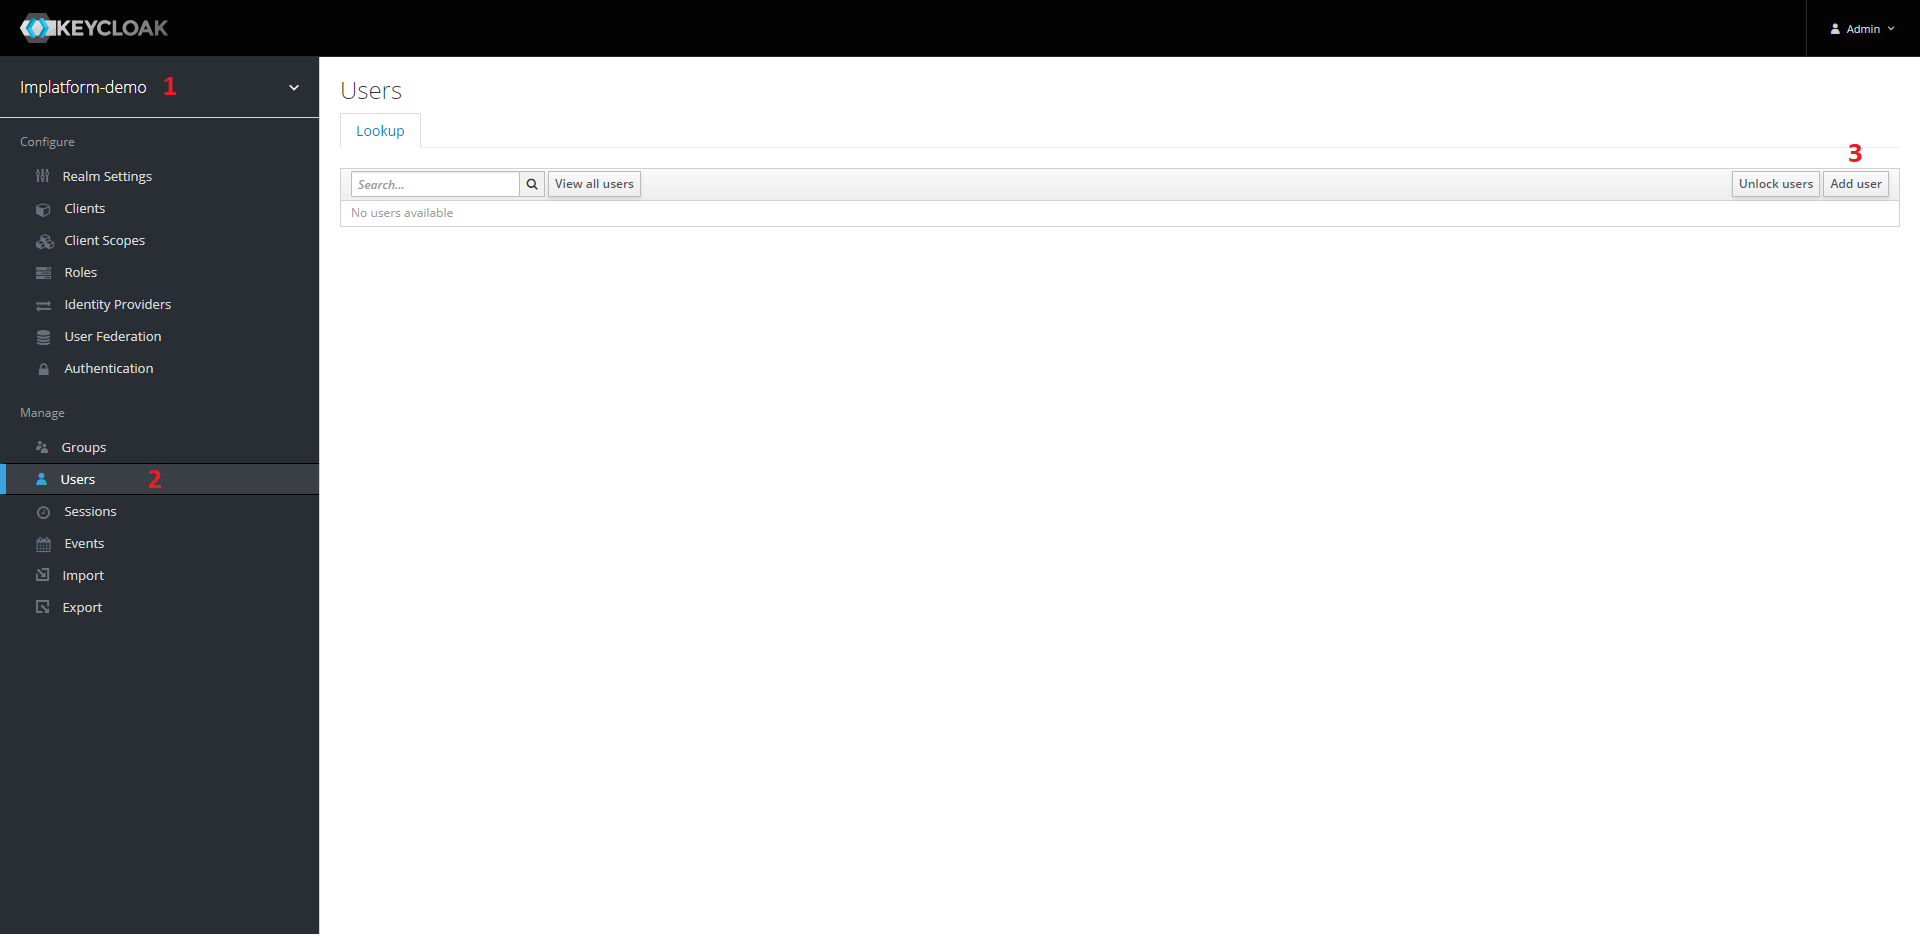
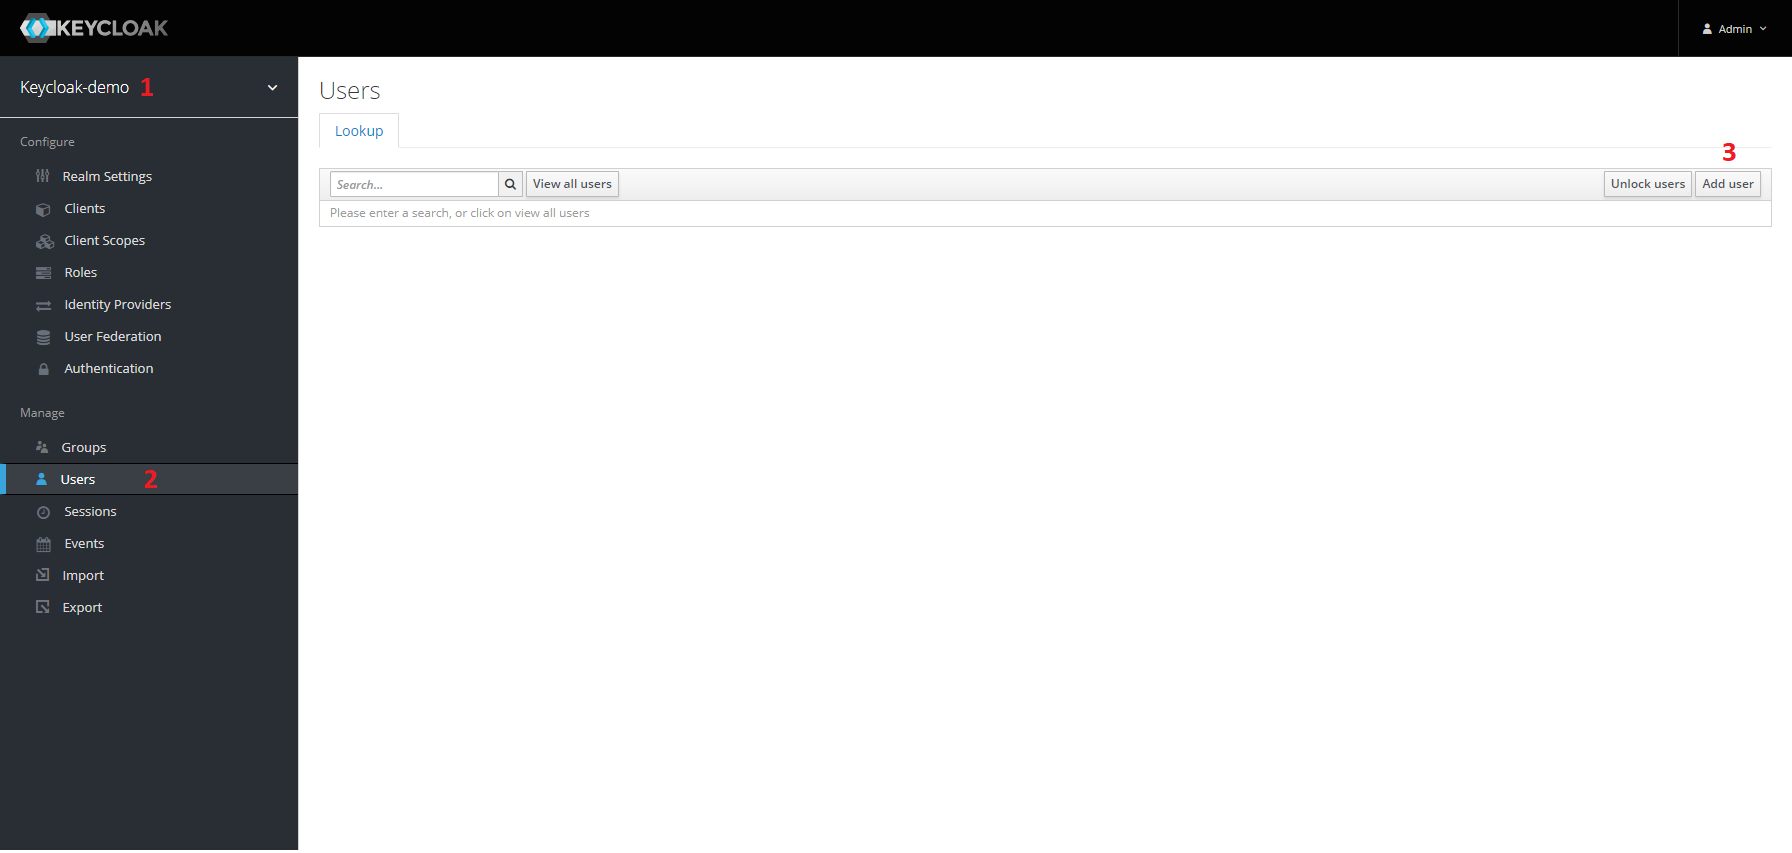
Refactor application name to keycloak-demo

Changed region(s): [[0.0, 0.0, 1.0, 0.3962], [0.0, 0.4267, 0.0938, 0.7315]]

diff --git a/frontend/src/main/ngx/karma.conf.js b/frontend/src/main/ngx/karma.conf.js
@@ -16,7 +16,7 @@ module.exports = function (config) {
       clearContext: false // leave Jasmine Spec Runner output visible in browser
     },
     coverageIstanbulReporter: {
-      dir: require('path').join(__dirname, './coverage/implatform-demo'),
+      dir: require('path').join(__dirname, './coverage/keycloak-demo'),
       reports: ['html', 'lcovonly', 'text-summary'],
       fixWebpackSourcePaths: true
     },

diff --git a/frontend/src/main/ngx/src/app/app.module.ts b/frontend/src/main/ngx/src/app/app.module.ts
@@ -11,8 +11,8 @@ import { CONFIG } from './app.config';
 const keycloakOptions: KeycloakOptions = {
   config: {
     url: 'http://localhost:8888/auth',
-    realm: 'implatform-demo',
-    clientId: 'implatform-demo-ui'
+    realm: 'keycloak-demo',
+    clientId: 'keycloak-demo-ui'
   },
   initOptions: {
     onLoad: 'login-required'

diff --git a/frontend/src/main/ngx/e2e/src/app.e2e-spec.ts b/frontend/src/main/ngx/e2e/src/app.e2e-spec.ts
@@ -10,7 +10,7 @@ describe('workspace-project App', () => {
 
   it('should display welcome message', () => {
     page.navigateTo();
-    expect(page.getTitleText()).toEqual('implatform-demo app is running!');
+    expect(page.getTitleText()).toEqual('keycloak-demo app is running!');
   });
 
   afterEach(async () => {

diff --git a/keycloak/README.md b/keycloak/README.md
@@ -1,6 +1,6 @@
 
 ### Run Keycloak server
-The following command will run the keycloak server and import automatically the realm `implatform-demo` from the file `realm-export.json`.
+The following command will run the keycloak server and import automatically the realm `keycloak-demo` from the file `realm-export.json`.
 
 **Note**: replace `ABSOLUTE_PATH` by the path to the file `realm-export.json`.
 ```shell
@@ -12,7 +12,7 @@ Access the admin console with the credential provided in the command in the prev
 http://localhost:8888/auth/
 
 ### Create a user
-Create a user in the realm `implatform-demo`.
+Create a user in the realm `keycloak-demo`.
 ![Create user](./images/create_user.png "Create user")
 
 Once it is created, set a password for the user. Then you will be able to login in the web application using that user.
